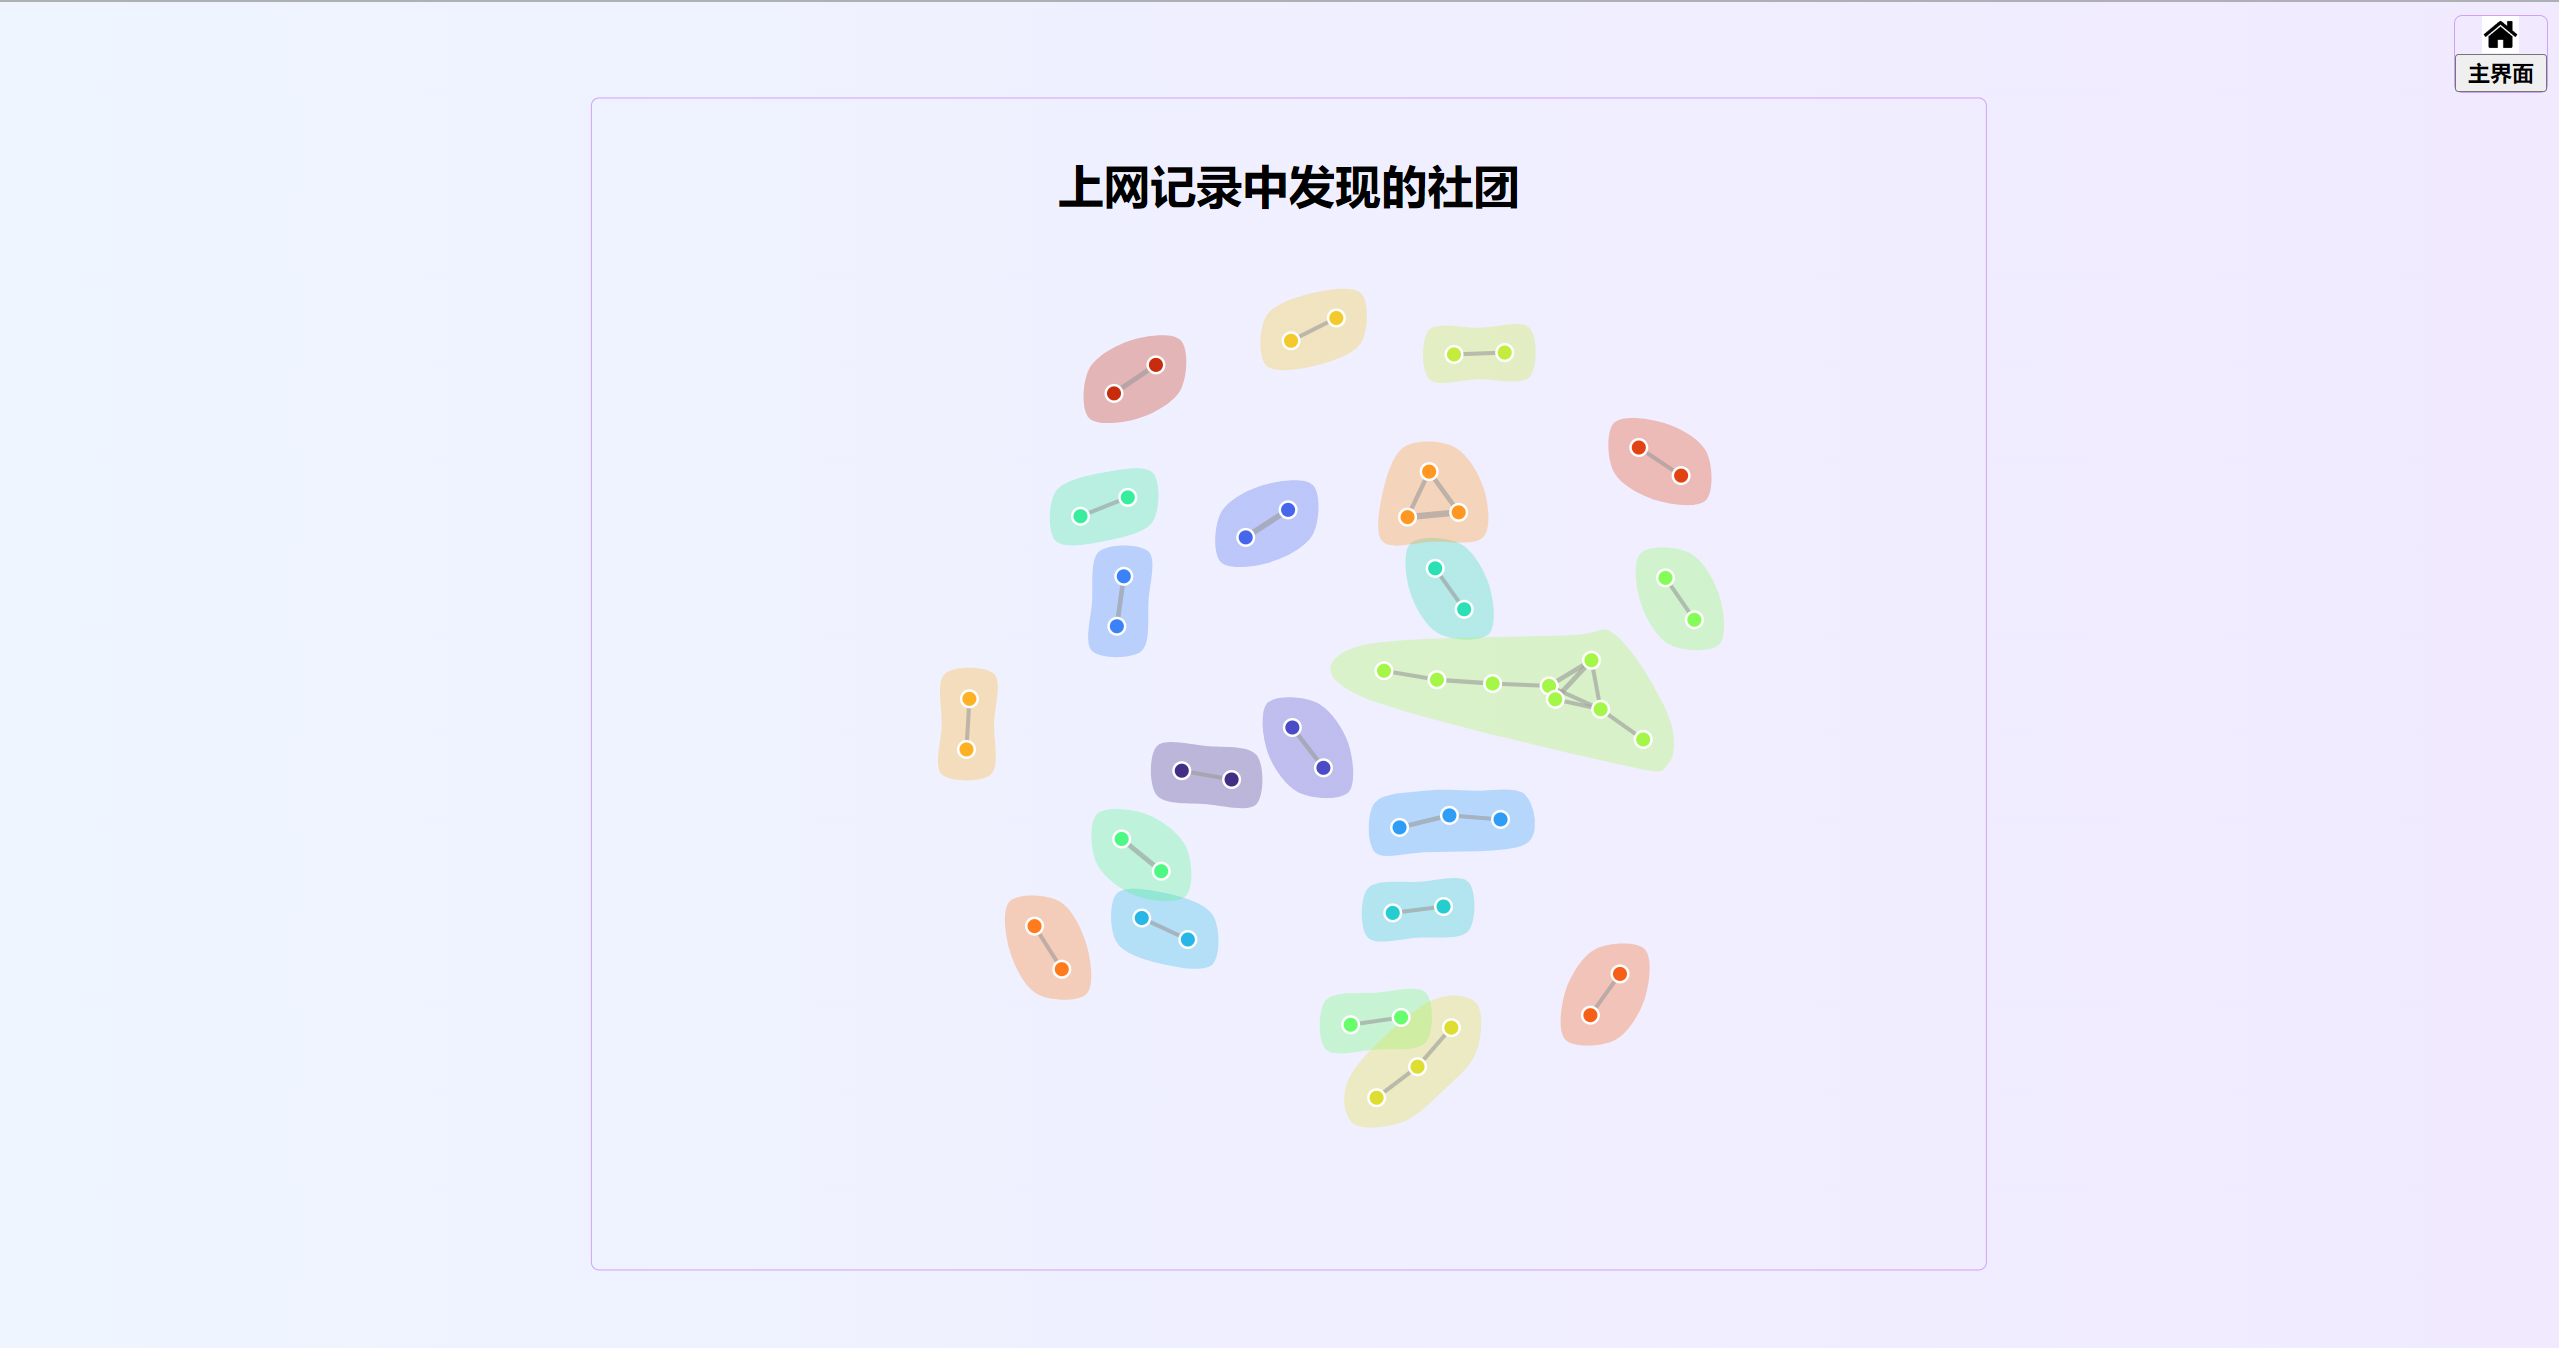
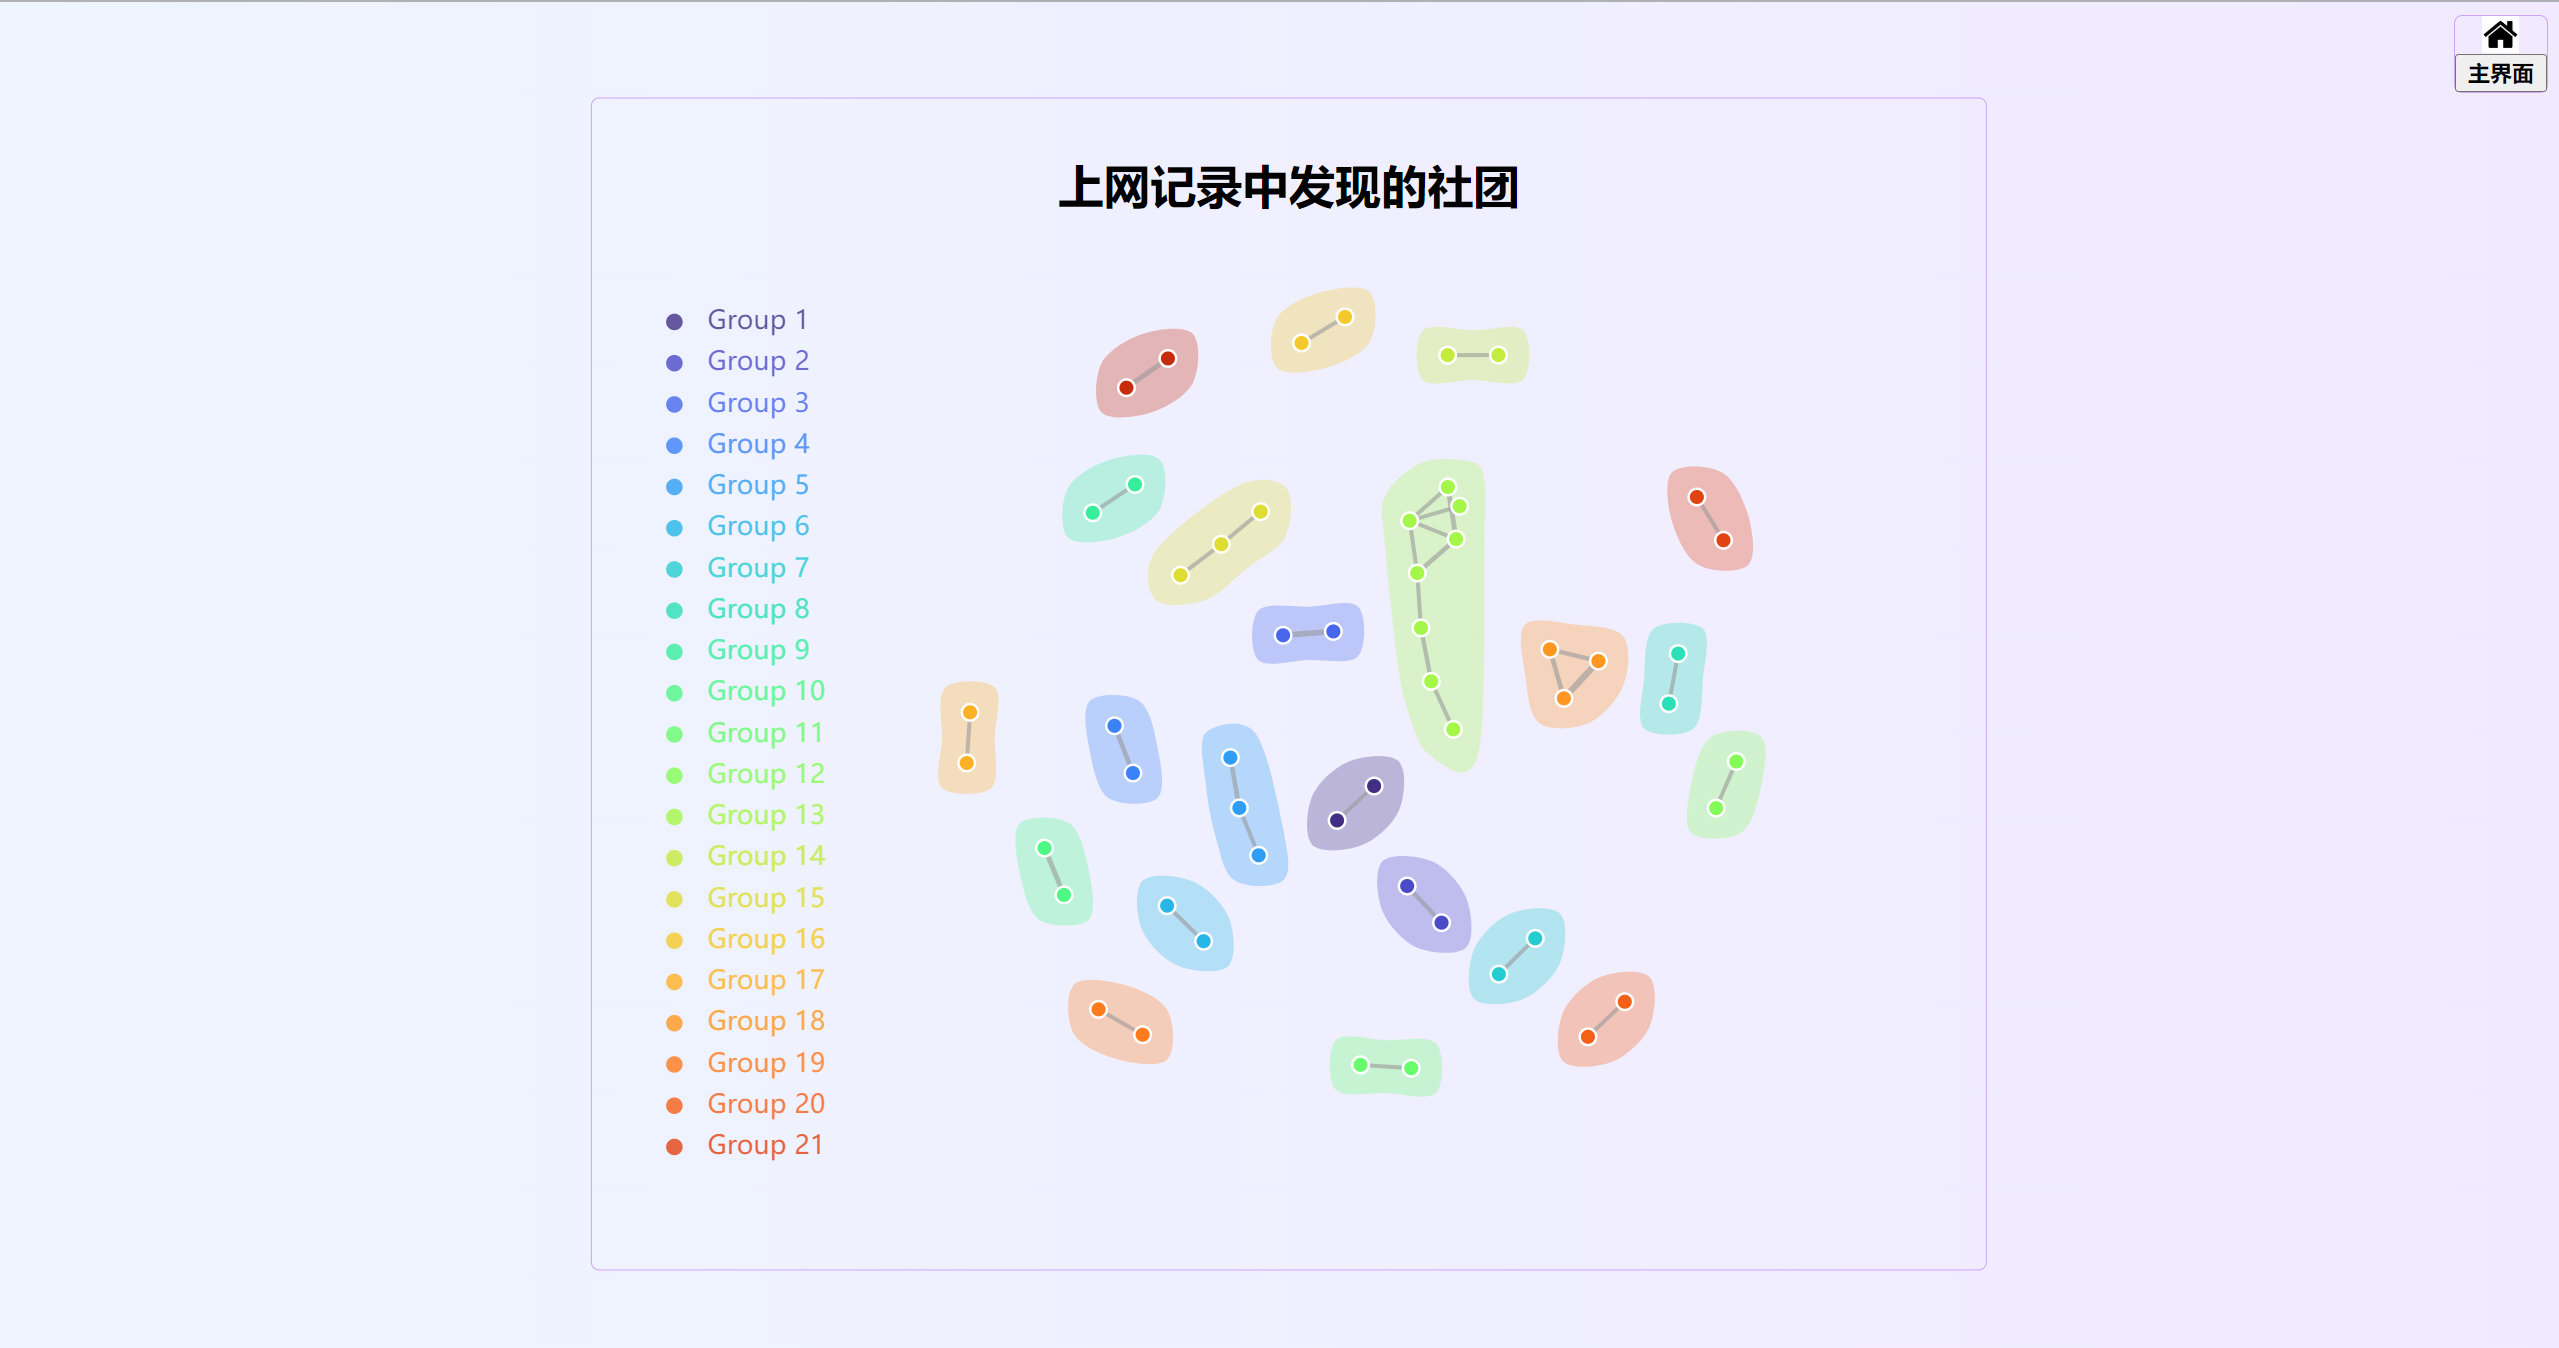
test code

Changed region(s): [[0.3705, 0.2181, 0.71, 0.8412], [0.2778, 0.2181, 0.3087, 0.8724]]

diff --git a/templates/relationship.html b/templates/relationship.html
@@ -259,32 +259,32 @@
 					.attr("d", drawCluster);
 			});
 
-			// let legend = svg.append("g")
-			// 	.attr("id", "legend");
+			let legend = svg.append("g")
+				.attr("id", "legend");
 
-			// legend.selectAll("mydots")
-			// 	.data(d3.range(1, 11))
-			// 	.enter()
-			// 	.append("circle")
-			// 	.attr("cx", 50)
-			// 	.attr("cy", function (d, i) {
-			// 		return 200 + i * 25
-			// 	})
-			// 	.attr("r", 5)
-			// 	.style("fill", function (d) { return color(d) })
-			// 	.style("opacity", 0.8);
+			legend.selectAll("mydots")
+				.data(d3.range(1, 22))
+				.enter()
+				.append("circle")
+				.attr("cx", 30)
+				.attr("cy", function (d, i) {
+					return 50 + i * 25
+				})
+				.attr("r", 5)
+				.style("fill", function (d) { return color(d) })
+				.style("opacity", 0.8);
 
-			// legend.selectAll("mylabels")
-			// 	.data(d3.range(1, 11))
-			// 	.enter()
-			// 	.append("text")
-			// 	.attr("x", 70)
-			// 	.attr("y", function (d, i) { return 200 + i * 25 })
-			// 	.style("fill", function (d) { return color(d) })
-			// 	.style("opacity", 0.8)
-			// 	.text(function (d) { return "Group " + d })
-			// 	.attr("text-anchor", "left")
-			// .style("alignment-baseline", "middle")
+			legend.selectAll("mylabels")
+				.data(d3.range(1, 22))
+				.enter()
+				.append("text")
+				.attr("x", 50)
+				.attr("y", function (d, i) { return 50 + i * 25 })
+				.style("fill", function (d) { return color(d) })
+				.style("opacity", 0.8)
+				.text(function (d) { return "Group " + d })
+				.attr("text-anchor", "left")
+			.style("alignment-baseline", "middle")
 
 
 			function dragstarted(event) {

diff --git a/pycode/Problem3.py b/pycode/Problem3.py
@@ -1,6 +1,9 @@
 from utils import *
 
 def count_people():
+    '''
+    count the times of people's online record 
+    '''
     people = {}
     for i in range(len(swjl_birth)):
         # If the date is invalid, skip the iteration
@@ -49,6 +52,7 @@ def compute_weight(info):
     info = sorted(info, key=lambda x:x['online'], reverse=False)
     weighted_graph = {}
     for i in range(len(info)):
+        # forward
         for j in range(i + 1, len(info)):
             record_from, record_to = info[i], info[j]
             if record_from['id'] == record_to['id']:
@@ -72,6 +76,7 @@ def compute_weight(info):
                     continue
             else:
                 weighted_graph[new_id] += weight
+        # backward
         for j in range(i - 1, -1, -1):
             record_from, record_to = info[i], info[j]
             if record_from['id'] == record_to['id']:
@@ -98,6 +103,9 @@ def compute_weight(info):
     return weighted_graph
 
 def decoder(graph):
+    '''
+    decode the information in graph as a dictionary
+    '''
     new_graph = []
     for key, value in graph.items():
         source, target = key.split('-')
@@ -106,7 +114,7 @@ def decoder(graph):
 
 def filter_graph(graph):
     '''
-    find the relationship with weight greater or equal than 4
+    find the relationship with weight greater or equal than 6
     '''
     new_graph = []
     for i in range(len(graph)):
@@ -115,6 +123,9 @@ def filter_graph(graph):
     return new_graph
 
 def write_as_json(graph):
+    '''
+    convert the dictionary as json
+    '''
     data = {'nodes': [], 'links': graph}
     edges = []
     for i in range(len(graph)):
@@ -134,7 +145,7 @@ def write_as_json(graph):
 
 def PROBLEM_3(swjl, wb):
     global swjl_personid, swjl_siteid, swjl_offline, swjl_online, swjl_birth, swjl_area
-    # get the value of the global varibles from swjl
+    # get the value of the global variables from swjl
     swjl_personid = series_to_list(swjl, 'PERSONID')
     swjl_siteid = series_to_numpy(swjl, 'SITEID')
     swjl_offline = series_to_numpy(swjl, 'OFFLINETIME')

diff --git a/pycode/Problem2.py b/pycode/Problem2.py
@@ -9,9 +9,8 @@ def PROBLEM_2(data_swjl):
     float_peop = []
     for i in range(len(data_swjl)):
         area = str(swjl_area[i])
+        # If the date is invalid, skip the iteration
         if area[0: 2] != "50" and len(area) == 6 and is_number(area):
-        # if area[0: 2] != "50":
-            # If the date is invalid, skip the iteration
             person_birth = swjl_birth[i]
             try:
                 person_birth = int(person_birth)
@@ -29,8 +28,5 @@ def PROBLEM_2(data_swjl):
                 average = average_time(str(onlinetime), str(offlinetime))
                 if average:
                     med_hour = average.hour
-                    float_peop.append({'area': area, 'hour': med_hour,
-                                       'duration': round(duration, 2), 'age': compute_age(birth_format),
-                                       'xb': swjl_xb[i]})
-
+                    float_peop.append({'area': area, 'hour': med_hour, 'duration': round(duration, 2), 'age': compute_age(birth_format), 'xb': swjl_xb[i]})
     return float_peop

diff --git a/pycode/utils.py b/pycode/utils.py
@@ -15,7 +15,7 @@ def read_csv(path):
     print("Reading 网吧信息.csv......")
     # the index of the swjl data
     Index = [0, 1, 3, 4, 5, 6, 7, 8, 9, 10, 11, 12, 13, 14, 15, 16]
-    # for index in Index[0: 2]: # just for test of the code
+    # for index in Index[0: 4]: # just for test of the code
     for index in Index[0: 16]:
         swjl_path = "hydata_swjl_" + str(index) + ".csv"
         data_swjl_tmp = pd.read_csv(os.path.join(path, swjl_path), low_memory=False)
